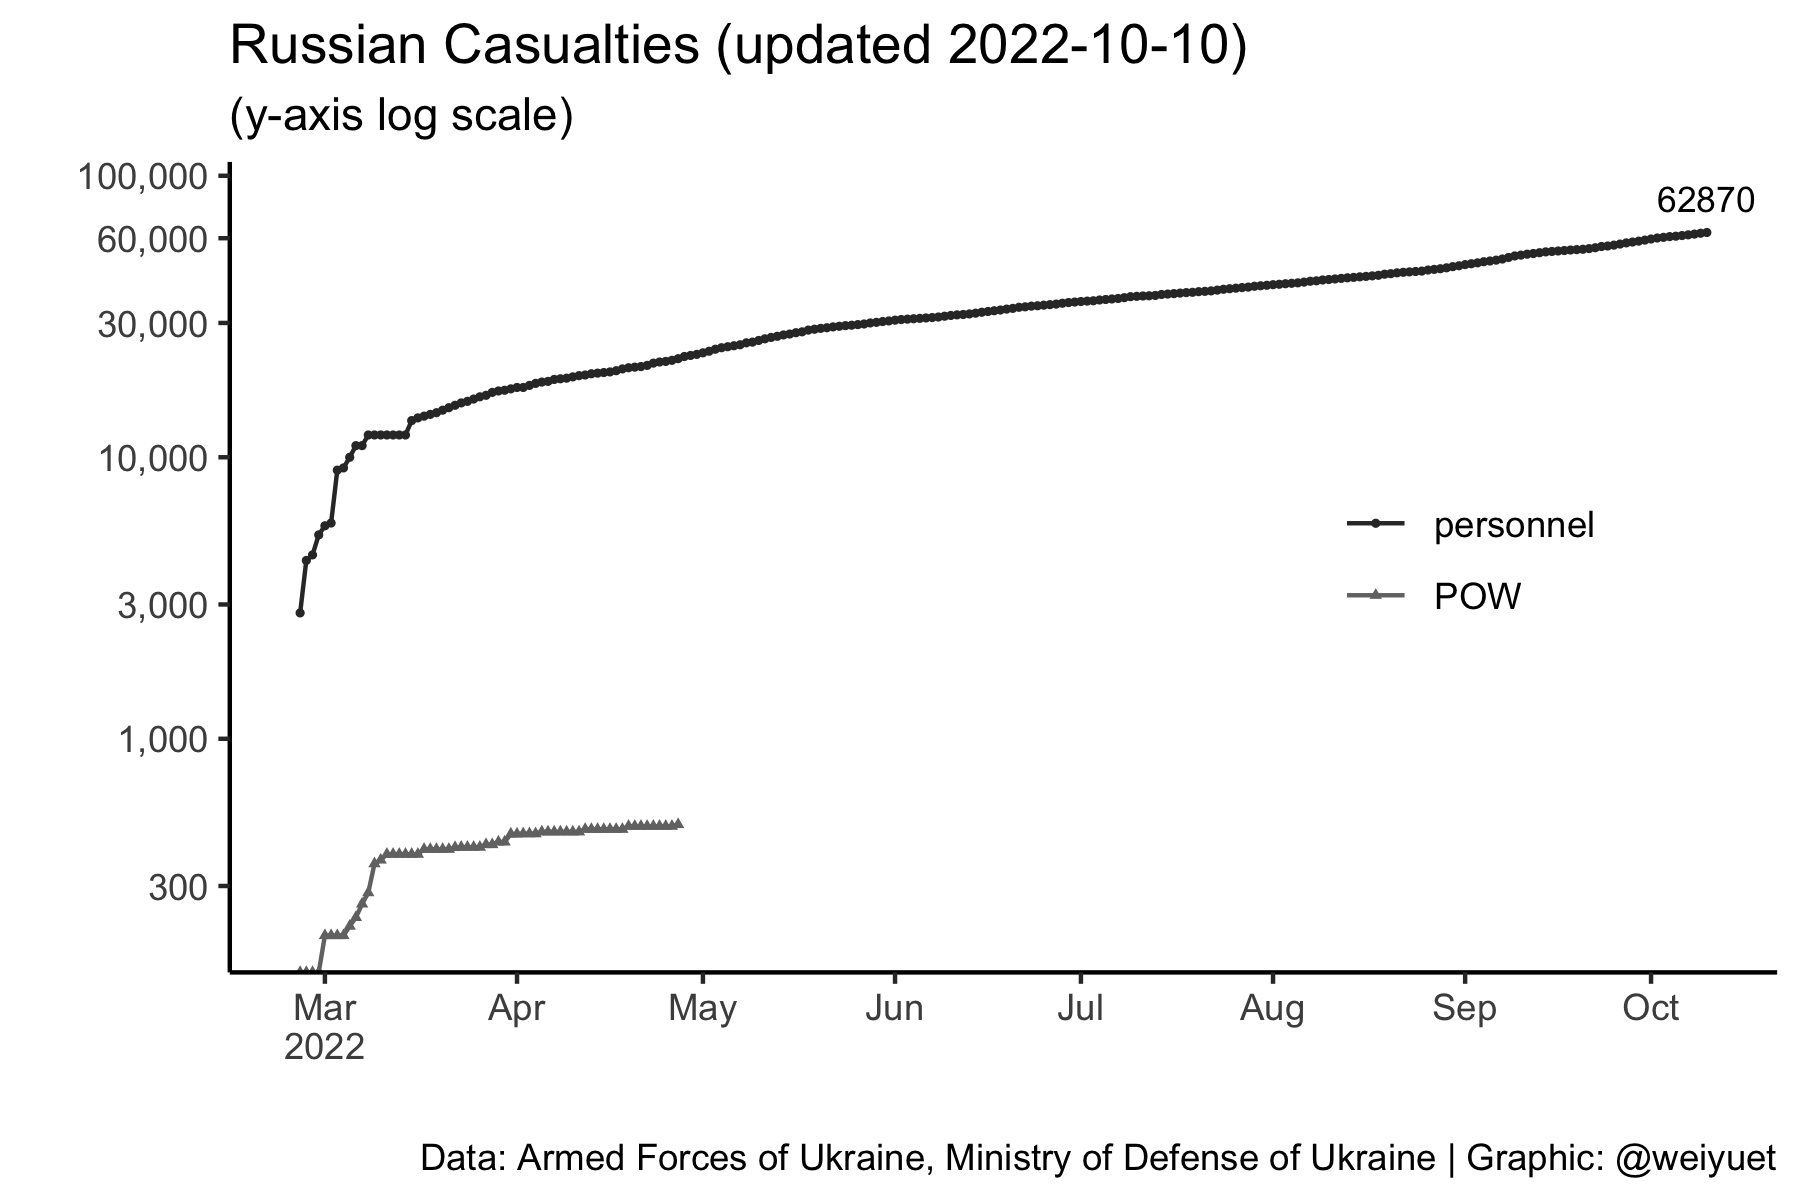
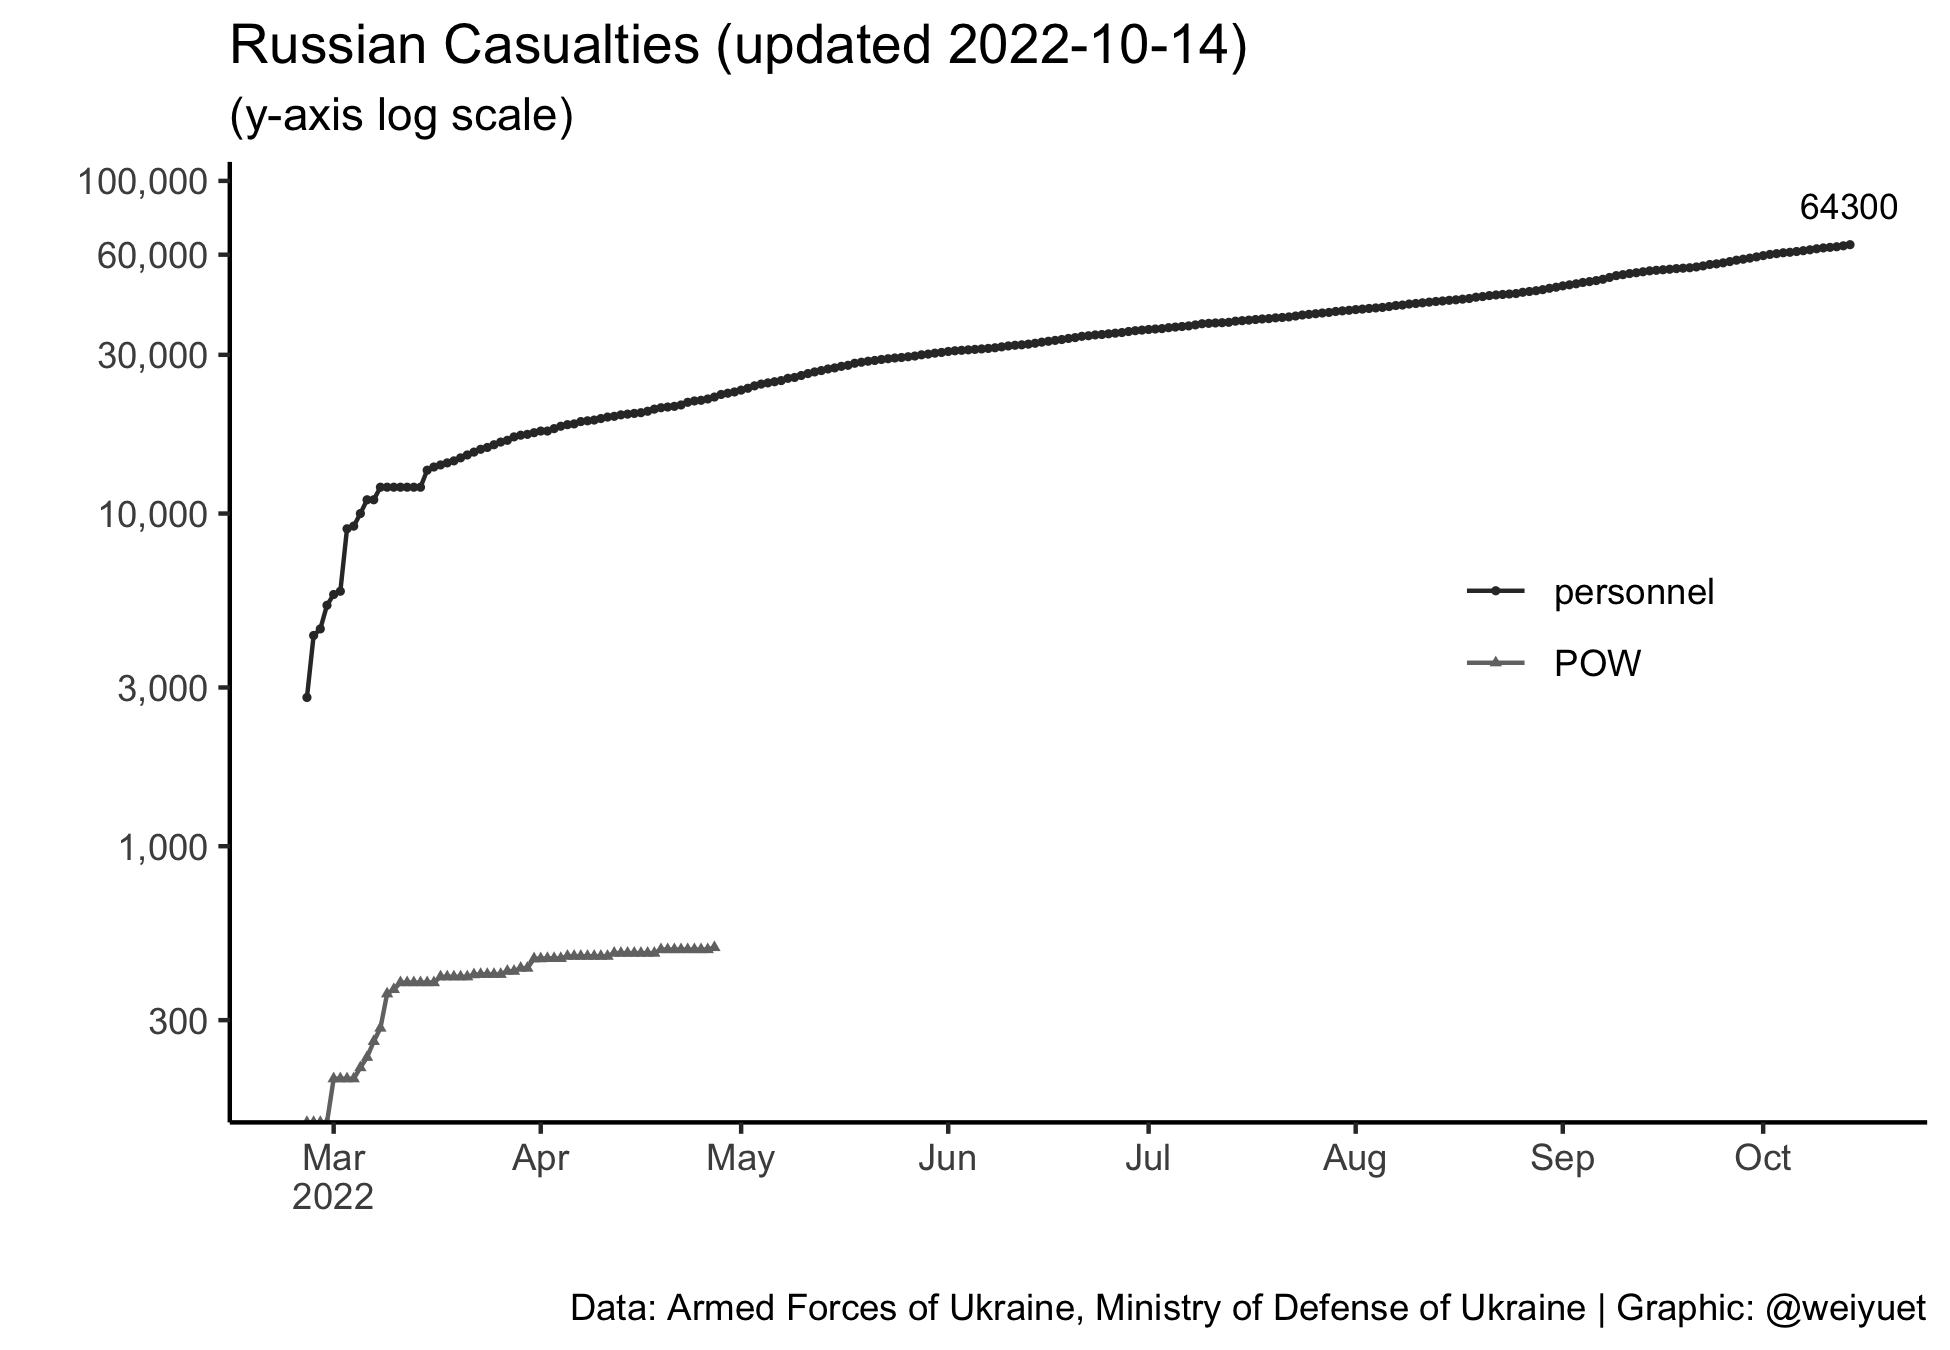
Updated 15 October

diff --git a/README.md b/README.md
@@ -6,7 +6,7 @@ Wong Wei Yuet 2022-05-26
 
   - War casualty data updated daily from [`Petro Ivanyuk's Kaggle`](https://www.kaggle.com/datasets/piterfm/2022-ukraine-russian-war). All data is official and put together by Petro
 
-Updated: 2022-10-10
+Updated: 2022-10-14
 
 ## Summary of Conflict
 
